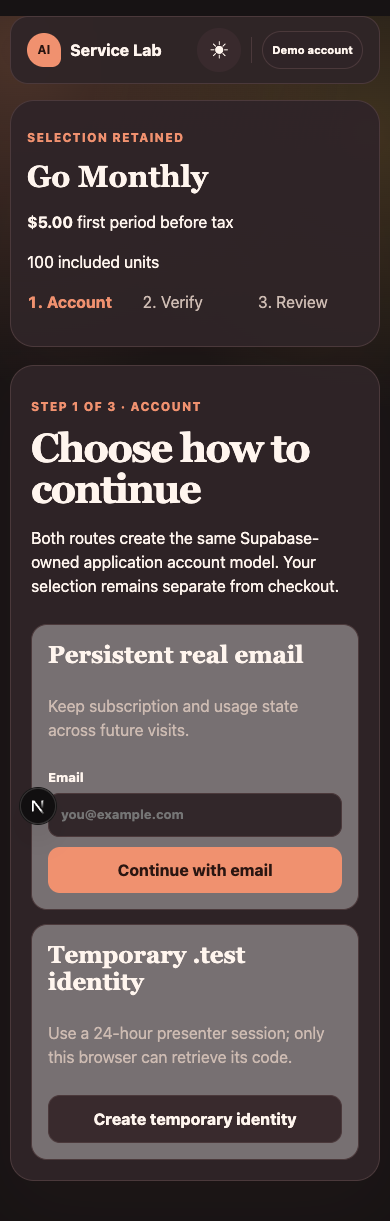
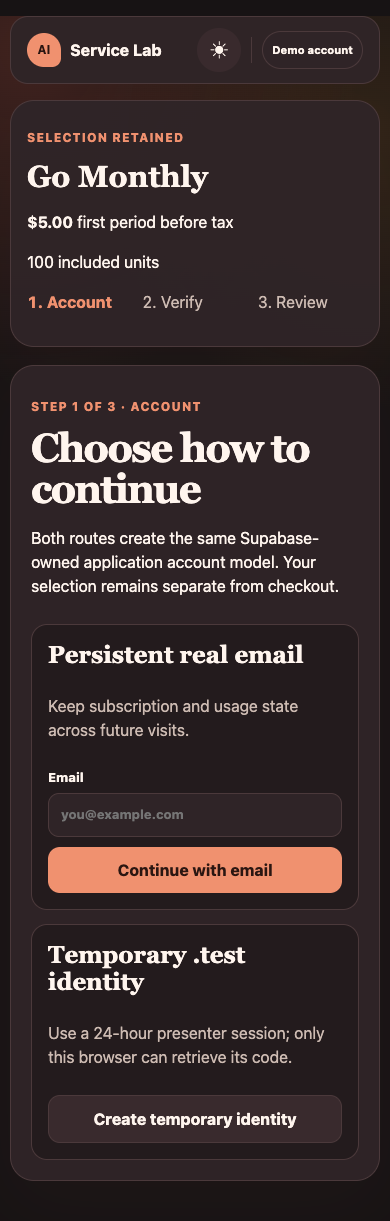
fix TASK-0002 manual theme surfaces

Changed region(s): [[0.0615, 0.498, 0.9231, 0.9648]]

diff --git a/demos/ai-service-subscription-pilot/tests/e2e/identity-and-quote.spec.ts b/demos/ai-service-subscription-pilot/tests/e2e/identity-and-quote.spec.ts
@@ -38,6 +38,29 @@ async function expectResponsiveBoundary(page: Page) {
   await expect(page.getByRole("button", { name: /paypal|pay with|card|apple pay|google pay/i })).toHaveCount(0);
 }
 
+async function expectEffectiveThemeSurfaces(
+  page: Page,
+  expected: { bodyBackground: string; bodyGradientMarker: string; articleBackground: string; paragraphForeground: string },
+) {
+  const renderedColors = await page.evaluate(() => {
+    const article = document.querySelector<HTMLElement>(".route-grid article");
+    const paragraph = article?.querySelector<HTMLElement>("p");
+    if (!article || !paragraph) throw new Error("Identity route surfaces are missing");
+    return {
+      bodyBackground: getComputedStyle(document.body).backgroundColor,
+      bodyBackgroundImage: getComputedStyle(document.body).backgroundImage,
+      articleBackground: getComputedStyle(article).backgroundColor,
+      paragraphForeground: getComputedStyle(paragraph).color,
+    };
+  });
+  expect(renderedColors.bodyBackgroundImage).toContain(expected.bodyGradientMarker);
+  expect(renderedColors).toMatchObject({
+    bodyBackground: expected.bodyBackground,
+    articleBackground: expected.articleBackground,
+    paragraphForeground: expected.paragraphForeground,
+  });
+}
+
 test("TC-0002 selection and persistent identity execute the API lifecycle without URL exposure", async ({ page }) => {
   let selected = false;
   let requestedEmail = "";
@@ -136,12 +159,24 @@ test("theme switches from both effective schemes and 390px identity, review, and
   await expect(themeToggle).toHaveAttribute("aria-pressed", "true");
   await themeToggle.click();
   await expect(page.locator("html")).toHaveAttribute("data-theme", "light");
+  await expectEffectiveThemeSurfaces(page, {
+    bodyBackground: "rgb(245, 237, 231)",
+    bodyGradientMarker: "rgba(232, 145, 103, 0.25)",
+    articleBackground: "rgba(255, 255, 255, 0.35)",
+    paragraphForeground: "rgb(114, 95, 86)",
+  });
 
   await page.emulateMedia({ colorScheme: "light" });
   await page.reload();
   await expect(themeToggle).toHaveAttribute("aria-pressed", "false");
   await themeToggle.click();
   await expect(page.locator("html")).toHaveAttribute("data-theme", "dark");
+  await expectEffectiveThemeSurfaces(page, {
+    bodyBackground: "rgb(23, 19, 20)",
+    bodyGradientMarker: "rgba(157, 68, 52, 0.3)",
+    articleBackground: "rgba(29, 22, 24, 0.65)",
+    paragraphForeground: "rgb(205, 187, 178)",
+  });
   await expect(page.getByText("Demo account")).toBeVisible();
   await expect(page.getByRole("heading", { name: "Choose how to continue" })).toBeVisible();
   await expectResponsiveBoundary(page);

diff --git a/demos/ai-service-subscription-pilot/src/app/globals.css b/demos/ai-service-subscription-pilot/src/app/globals.css
@@ -4,5 +4,7 @@
 @media(prefers-reduced-motion:reduce){*{scroll-behavior:auto!important;transition:none!important}}
 :root[data-theme="light"]{color-scheme:light;--page:#f5ede7;--ink:#342721;--muted:#725f56;--line:#decfc6;--card:rgba(255,252,248,.95);--soft:#f5e3d9;--primary:#c86240;--primary-ink:#fffaf6;--warn:#8a5b14}
 :root[data-theme="dark"]{color-scheme:dark;--page:#171314;--ink:#fff5ee;--muted:#cdbbb2;--line:#4b393b;--card:rgba(47,36,39,.96);--soft:#392a2d;--primary:#f0916f;--primary-ink:#2b1611;--warn:#f2c36f}
+:root[data-theme="light"] body{background:radial-gradient(circle at 5% 3%,rgba(232,145,103,.25),transparent 28%),radial-gradient(circle at 94% 10%,rgba(225,175,76,.2),transparent 25%),var(--page)}:root[data-theme="light"] .route-grid article{background:rgba(255,255,255,.35)}
+:root[data-theme="dark"] body{background:radial-gradient(circle at 7% 3%,rgba(157,68,52,.3),transparent 28%),radial-gradient(circle at 94% 10%,rgba(167,111,38,.18),transparent 25%),var(--page)}:root[data-theme="dark"] .route-grid article{background:rgba(29,22,24,.65)}
 .header-actions{display:flex;align-items:center;gap:10px}.theme-toggle{display:grid;width:44px;height:44px;min-height:44px;padding:0;place-items:center;border-radius:50%;background:transparent;color:var(--ink);font-size:20px}.theme-toggle:hover{background:var(--soft)}.header-separator{width:1px;height:26px;background:var(--line)}.account-cue{display:grid;min-height:38px;padding:0 12px;place-items:center;border:1px solid var(--line);border-radius:999px;background:var(--card);font-size:12px;font-weight:750}
 @media(max-width:700px){.site-header{gap:8px}.account-cue{padding:0 9px;font-size:11px}}

diff --git a/demos/ai-service-subscription-pilot/tracking/tasks/TASK-0002/execution.md b/demos/ai-service-subscription-pilot/tracking/tasks/TASK-0002/execution.md
@@ -1,43 +1,59 @@
 # TASK-0002 Execution Report
 
 - status: needs_review
-- executor: task0002_executor
+- executor: task0002_executor_round7_resume
 - task: TASK-0002
-- execution_round: 6
+- execution_round: 7
[1 lines of base64/hex data omitted]
-- recovery_approval: `user:TASK-0002:2026-08-23:database-connection-and-one-turn-extension-approved`
+- recovery_approval: `user:TASK-0002:2026-08-24:minimal-effective-theme-recovery-approved`
 - visual_approval: `user:TASK-0002:2026-08-19:schema-aligned-focused-mockup-approved`
-- base_candidate: `9d858d2a76a821ff36517297f95abd5dfd2dd009`
+- base_candidate: `9b083fc24a6b2f9c52f86ff203b410e8b7c73099`
 - candidate_commit: supplied in the executor handoff after this report is committed
 
-## Scoped Finding Dispositions
+## Scoped Finding Disposition
 
-1. **Auth response and real selection evidence — corrected.** OTP verification now uses a route-handler Supabase client that collects `setAll` cookies/cache headers and applies them to the real JSON response. The proxy remains the refresh boundary and Supabase remains the only identity authority. Request-OTP success and provider failure both return the approved non-enumerating `202 { accepted: true }`. Route tests cover session persistence into the owned review response. The production repository test observes exactly `+1` checkout intent and zero deltas for accounts, quotes, payment operations, billing arrangements, and allowance windows.
-2. **Initial quote and actual Postgres concurrency — corrected and clarified.** The query now explicitly orders by `q.id`. The reviewer-predicted ambiguity did not reproduce against PostgreSQL because only `q.*` exposes `id` in the selected output; the requested qualification was still applied. A Shared-Pooler test executes the production insert, bind, and `PostgresQuoteRepository` paths: first bind succeeds, retry returns the same account/quote, and two concurrent replacement transactions yield one replacement plus one conflict and exactly one successor. Isolated fixture cleanup is transactional and the six observed table counts return to their exact baseline.
-3. **Effective theme and bounded responsive proof — corrected.** The header derives the effective OS color scheme through `useSyncExternalStore`; the first action switches from either starting scheme without a hydration effect. Playwright now asserts both starts, zero browser console/page errors, no payment controls, and 390px overflow/control sizing on identity, review, and stale states.
+`FINDING-001` is corrected without changing theme selection semantics. Manual `data-theme` now owns the body gradient and identity route-card background as well as the existing color tokens. The browser regression reads rendered styles after both dark-OS to manual-light and light-OS to manual-dark switches, requiring the matching body background/gradient, route-card surface, and paragraph foreground. This catches the reviewed mixed-mode failure instead of passing on the `data-theme` attribute alone.
 
-## TDD And Verification
+## Files Changed
 
-- Auth/route red: 3 of 4 focused assertions failed on the missing writer, missing verification cookie, and incorrect request-failure status.
-- Auth/route green: 12/12 focused assertions passed including the existing auth service suite.
-- Theme red: OS-dark start reported `aria-pressed=false`; green after effective-theme correction.
-- Actual Postgres integration: 1/1 passed against the Supabase Shared Pooler; all isolated rows were removed and counts returned to baseline.
-- Full unit suite: 34 passed; the environment-gated Postgres test skipped in the credential-free run and passed separately with `.env.local`.
-- Full local browser suite: 4 passed; hosted case skipped honestly.
-- Production server browser suite: 4 passed; hosted case skipped honestly.
+- `src/app/globals.css`: adds only explicit light/dark manual-theme rules for the two reviewed surfaces.
+- `tests/e2e/identity-and-quote.spec.ts`: asserts the computed body, card, and paragraph styling in both manual-switch directions.
+- `tracking/evidence/artifacts/EVID-0002/06-account-route-mobile-dark.png`: refreshes the directly affected sanitized light-OS to manual-dark artifact.
+- `tracking/evidence/EVID-0002.md`: narrows the visual claim to the verified rendered surfaces while retaining hosted status as blocked.
+- `tracking/tasks/TASK-0002/execution.md`: records this recovery and its verification.
+
+## Acceptance Criterion, Test, And Evidence
+
+- AC-4 / TC-0004 responsive-theme obligation: focused computed-style regression passed in both manual directions; the existing 390px identity, current-review, and stale-review boundaries, zero-console check, and no-payment-control assertion also passed.
+- AC-1 through AC-3 and AC-5 behavior is unchanged. The full approved local regression set was repeated.
+- EVID-0002 remains `blocked` for the hosted Render endpoint, configured Supabase Send Email Hook, controlled inbox, and hosted originating-browser isolation.
+
+## Red And Green Record
+
+- Red command: focused Chromium Playwright theme case with the explicit manual body/card rules removed. Result: 1 failed at the rendered body gradient assertion after dark OS to manual light; the dark gradient remained.
+- Green command: same focused case with the minimal rules restored. Result: 1 passed.
+- Full development-server browser suite: 4 passed; the hosted case skipped.
+- Full built-production-server browser suite: 4 passed; the hosted case skipped.
+- Unit suite: 34 passed; the credential-gated repository case skipped in the credential-free run.
+- Actual PostgreSQL repository integration: 1 passed against the configured Supabase Shared Pooler; its existing isolated cleanup completed.
 - Typecheck and lint: passed.
 - Webpack production build: passed.
-- Production dependency audit: 0 vulnerabilities.
 - Delivery-loop validator: 48/48 passed.
-- `scripts/check-agent-system.sh`: passed.
+- `scripts/check-agent-system.sh` and `git diff --check`: passed.
+- A fresh npm advisory lookup was denied because it would send dependency metadata to the public registry. This recovery changes no dependency or lock file; the base candidate's captured zero-vulnerability audit is unchanged, not re-labeled as fresh proof.
 
 ## Evidence And Security
 
-- Artifact: `tracking/evidence/EVID-0002.md`.
-- Status remains `blocked` only for hosted Render/Supabase Hook, inbox, and browser-isolation proof.
-- `.env.local` is ignored and was never printed, logged, staged, or copied into evidence. No database URL or password appears in the candidate.
-- No migration, schema, PayPal/provider, payment/funding, entitlement, allowance, suspension, feature, later-task, canonical-authority, or loop-control file was changed.
+- Artifact: `tracking/evidence/EVID-0002.md` and the refreshed `06-account-route-mobile-dark.png`.
+- The screenshot contains only deterministic demo copy and opaque fixture identifiers.
+- Ignored `.env.local` remained unstaged and no credential, database URL, token, OTP, or private identifier entered code, logs, screenshots, or reports.
+- No backend, Auth, database, migration, schema, PSP/payment/funding, entitlement/allowance/suspension, feature, component redesign, canonical-authority, workflow configuration, or loop-control file changed.
+
+## Unresolved And Out Of Scope
+
+- Hosted EVID-0002 proof remains blocked as recorded above.
+- Full typography and accessibility closure remains EVID-0005; this round proves only the focused rendered theme coherence required by `FINDING-001`.
 
 ## Rollback
 
-Revert the round-6 candidate commit. The integration fixture was removed during the test and all observed table counts returned to baseline; no migration or PSP state requires rollback.
+Revert the round-7 candidate commit. No database, provider, migration, or hosted state requires rollback.

diff --git a/demos/ai-service-subscription-pilot/tracking/evidence/EVID-0002.md b/demos/ai-service-subscription-pilot/tracking/evidence/EVID-0002.md
@@ -1,7 +1,7 @@
 # EVID-0002 — Identity, Intent Resumption, And Exact Quote
 
 - status: blocked
-- captured_at: 2026-08-23
+- captured_at: 2026-08-24
 - task: TASK-0002
[1 lines of base64/hex data omitted]
 - requirements: REQ-0034, REQ-0035, REQ-0038
@@ -11,7 +11,7 @@
 
 ## Result
 
-The bounded TASK-0002 implementation is locally reviewable. Supabase verification cookies persist on the route response, selection deltas are measured against actual PostgreSQL, and production-repository bind/retry/concurrent replacement behavior runs through the Supabase Shared Pooler. Exact quote arithmetic, canonical retry, strict replacement input, exactly-one supersession, ownership/not-found behavior, stored provenance, stale rejection, signed session proof, encrypted temporary OTP storage, raw-body signature verification, browser-session isolation, success/expiry clearing, and invalid-signature rejection pass automated tests. The production build executes the approved intent, identity, review, and stale-replacement interactions at laptop and 390px with both effective themes, no overflow, no undersized controls, no console errors, and no payment control.
+The bounded TASK-0002 implementation is locally reviewable. Supabase verification cookies persist on the route response, selection deltas are measured against actual PostgreSQL, and production-repository bind/retry/concurrent replacement behavior runs through the Supabase Shared Pooler. Exact quote arithmetic, canonical retry, strict replacement input, exactly-one supersession, ownership/not-found behavior, stored provenance, stale rejection, signed session proof, encrypted temporary OTP storage, raw-body signature verification, browser-session isolation, success/expiry clearing, and invalid-signature rejection pass automated tests. The production build executes the approved intent, identity, review, and stale-replacement interactions at laptop and 390px with no overflow, no undersized controls, no console errors, and no payment control. Focused computed-style assertions now prove that dark OS to manual light and light OS to manual dark each apply the intended body gradient, route-card surface, and paragraph foreground together instead of retaining mixed OS-controlled backgrounds.
 
 EVID-0002 is not marked passing. Hosted Supabase/Render Hook, inbox, and browser-isolation proof remain unavailable and were not simulated.
 
@@ -29,6 +29,8 @@ EVID-0002 is not marked passing. Hosted Supabase/Render Hook, inbox, and browser
 | Round-6 Auth/route green | focused route/server/auth tests | 12 tests passed |
 | Actual Postgres repository | environment-gated integration test through Shared Pooler | 1 passed: actual deltas, canonical retry, one replacement/one conflict, counts restored to baseline |
 | Theme/responsive red → green | focused Playwright case | OS-dark initialization failed, then both themes and three mobile states passed |
+| Round-7 effective-surface red | focused Playwright case with the explicit `data-theme` body/card rules removed | failed on dark-OS to manual-light: the rendered body retained the dark gradient instead of the expected light gradient |
+| Round-7 effective-surface green | same focused Playwright case with the minimal explicit rules restored | passed; both manual switch directions matched the intended body, route-card, and paragraph computed styles |
 | Full regression | `npm test` | 34 tests passed; credential-gated Postgres test skipped and run separately |
 | Static quality | `npm run typecheck`, `npm run lint` | both passed with zero findings |
 | Production dependency audit | `npm audit --omit=dev --audit-level=high` | 0 vulnerabilities |
@@ -93,7 +95,7 @@ The default Turbopack build path could not bind its internal worker port in this
 - `tracking/evidence/artifacts/EVID-0002/05-stale-review-laptop.png`
 - `tracking/evidence/artifacts/EVID-0002/06-account-route-mobile-dark.png`
 
-The screenshots contain only deterministic demo fixture text and opaque fixture identifiers. Visual inspection confirmed the approved warm-glass hierarchy, high-opacity form/money/status surfaces, readable dark mode, mobile single-column order, and no visible payment control.
+The screenshots contain only deterministic demo fixture text and opaque fixture identifiers. The directly affected mobile-dark artifact was refreshed after switching from a light OS preference to manual dark. Visual inspection and computed-style assertions confirm the coherent dark body gradient, dark route-card surface, muted foreground, high-opacity evidence surfaces, mobile single-column order, and no visible payment control; the reverse dark-OS to manual-light combination is covered by the same computed-style regression.
 
 ## Schema And Hosted Status
 
